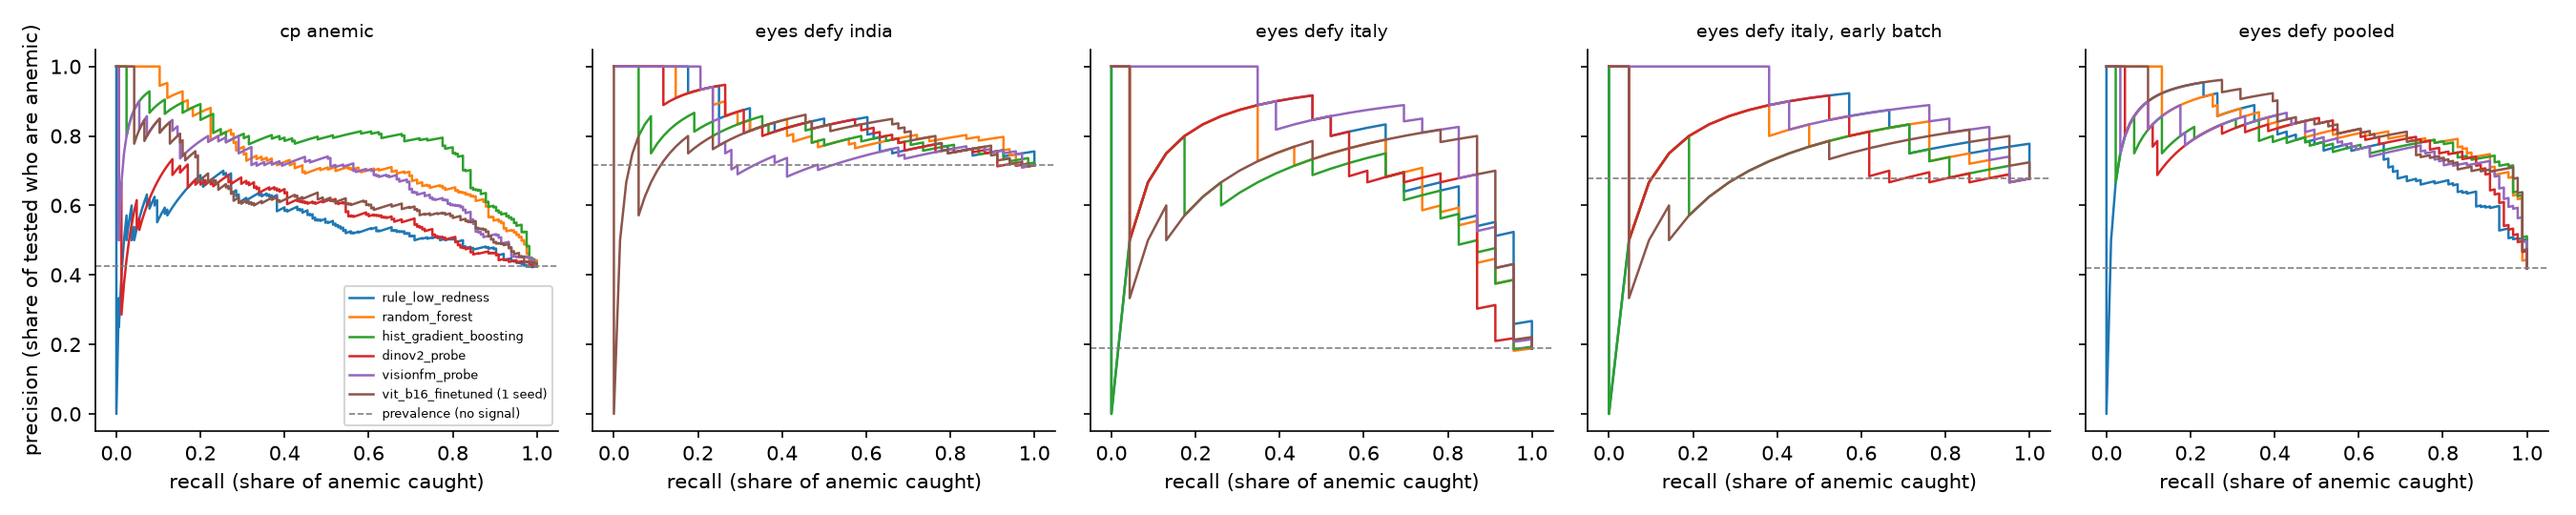
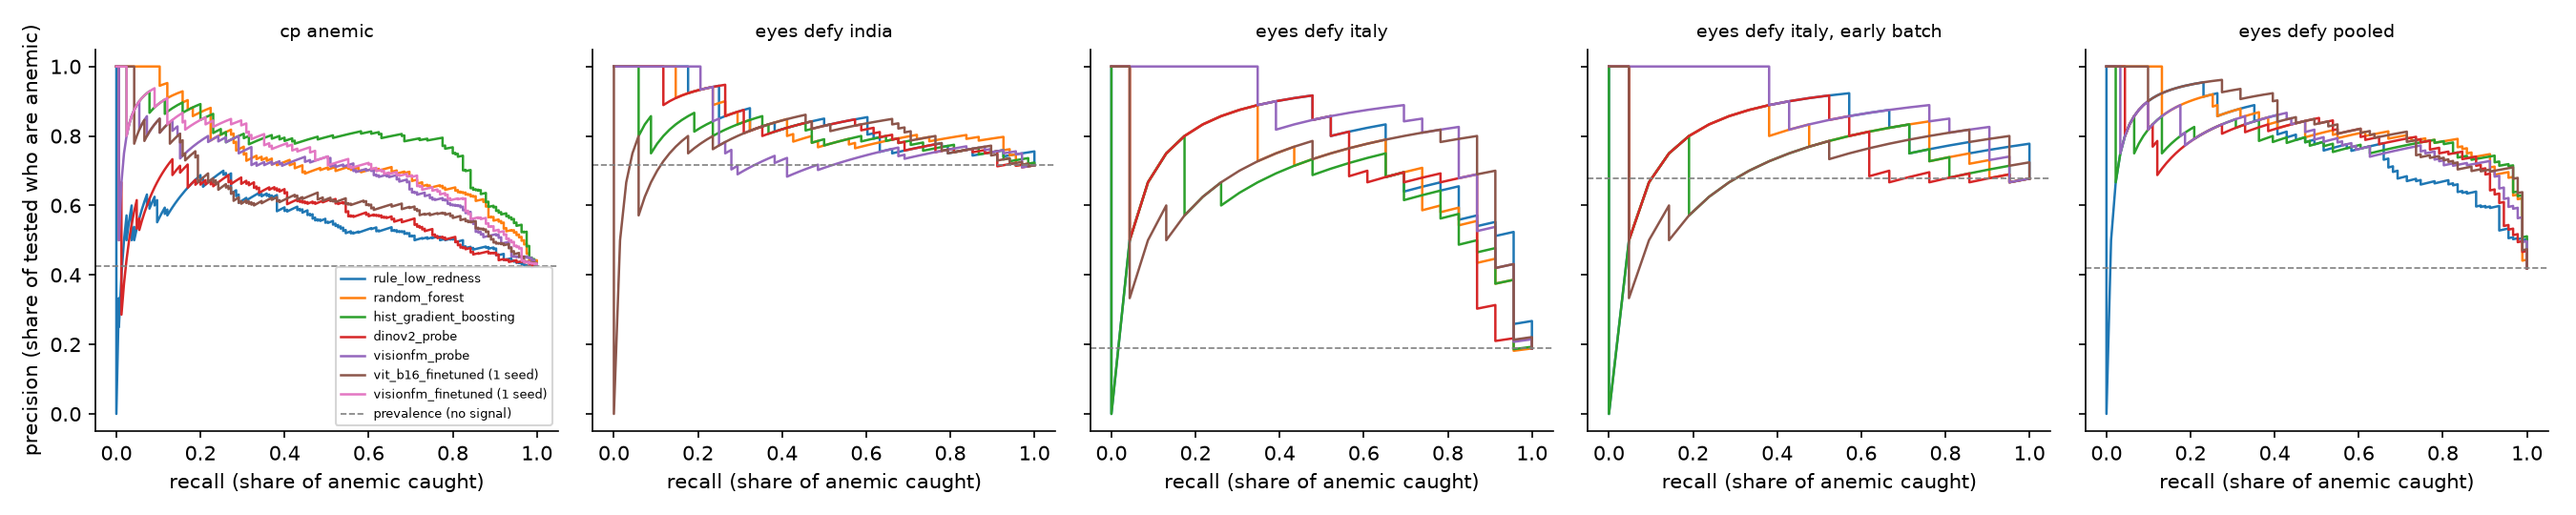
Clinic view with fine-tuned VisionFM

diff --git a/reports/clinical_eyelid.md b/reports/clinical_eyelid.md
@@ -1,6 +1,6 @@
 # What the eyelid models would mean in a clinic
 
-Generated by `python -m src.eyelid.clinical`; settings in `configs/clinical.yaml`. Mentor advice M13 (`docs/eyelid_followup.md`). Held-out scores from Stage 9's folds (5x5 CV by photo, averaged; the ViT has one seed). Anemic: CP-AnemiC Hb < 11.0 g/dL (children, the 388 photos with no copy); Eyes-Defy WHO by sex (women < 12.0, men < 13.0). Bootstrap 95% CIs (2000 resamples).
+Generated by `python -m src.eyelid.clinical`; settings in `configs/clinical.yaml`. Mentor advice M13 (`docs/eyelid_followup.md`). Held-out scores from Stage 9's folds (5x5 CV by photo, averaged; the fine-tuned ViT and VisionFM have one seed). Anemic: CP-AnemiC Hb < 11.0 g/dL (children, the 388 photos with no copy); Eyes-Defy WHO by sex (women < 12.0, men < 13.0). Bootstrap 95% CIs (2000 resamples).
 
 How to read it: a clinic picks how many anemic people it can afford to miss. **Tested to catch 90%** is the share of *everyone* who must get a blood test, highest scores first, to catch 90% of the anemic ones. Testing everyone catches 100% at a load of 1.0, so a useful score has to land well below 1.0. **Anemic among tested** is the precision there. Which row matters is a clinical choice: what a missed anemic person costs against an unneeded blood test. That has to come from clinicians, not from us.
 
@@ -14,6 +14,7 @@ How to read it: a clinic picks how many anemic people it can afford to miss. **T
 | cp_anemic | 388 | 42.5% | dinov2_probe | 0.673 [0.603, 0.773] | 0.827 [0.784, 0.902] | 0.915 [0.869, 0.954] | 0.992 [0.959, 1.000] |
 | cp_anemic | 388 | 42.5% | visionfm_probe | 0.564 [0.505, 0.655] | 0.742 [0.662, 0.843] | 0.892 [0.768, 0.928] | 0.982 [0.923, 0.992] |
 | cp_anemic | 388 | 42.5% | vit_b16_finetuned (1 seed) | 0.595 [0.546, 0.662] | 0.776 [0.665, 0.838] | 0.879 [0.791, 0.948] | 0.979 [0.954, 0.992] |
+| cp_anemic | 388 | 42.5% | visionfm_finetuned (1 seed) | 0.557 [0.487, 0.634] | 0.729 [0.639, 0.796] | 0.835 [0.737, 0.951] | 0.982 [0.956, 0.992] |
 | eyes_defy_india | 95 | 71.6% | rule_low_redness | 0.800 [0.694, 0.832] | 0.874 [0.800, 0.926] | 0.947 [0.853, 0.968] | 0.947 [0.895, 0.989] |
 | eyes_defy_india | 95 | 71.6% | random_forest | 0.747 [0.663, 0.800] | 0.832 [0.758, 0.916] | 0.916 [0.811, 1.000] | 1.000 [0.947, 1.000] |
 | eyes_defy_india | 95 | 71.6% | hist_gradient_boosting | 0.747 [0.684, 0.832] | 0.874 [0.800, 0.937] | 0.958 [0.863, 0.989] | 0.989 [0.937, 1.000] |
@@ -49,6 +50,7 @@ How to read it: a clinic picks how many anemic people it can afford to miss. **T
 | cp_anemic | 388 | 42.5% | dinov2_probe | 0.510 [0.423, 0.583] | 0.464 [0.398, 0.521] | 0.442 [0.391, 0.496] | 0.429 [0.381, 0.478] | 0.583 [0.507, 0.665] |
 | cp_anemic | 388 | 42.5% | visionfm_probe | 0.603 [0.506, 0.684] | 0.517 [0.436, 0.589] | 0.454 [0.403, 0.542] | 0.433 [0.384, 0.489] | 0.693 [0.613, 0.770] |
 | cp_anemic | 388 | 42.5% | vit_b16_finetuned (1 seed) | 0.571 [0.492, 0.638] | 0.495 [0.436, 0.587] | 0.463 [0.407, 0.534] | 0.434 [0.386, 0.486] | 0.637 [0.559, 0.707] |
+| cp_anemic | 388 | 42.5% | visionfm_finetuned (1 seed) | 0.620 [0.528, 0.705] | 0.530 [0.464, 0.615] | 0.485 [0.405, 0.561] | 0.433 [0.385, 0.484] | 0.729 [0.658, 0.802] |
 | eyes_defy_india | 95 | 71.6% | rule_low_redness | 0.763 [0.662, 0.865] | 0.759 [0.663, 0.845] | 0.756 [0.663, 0.839] | 0.756 [0.660, 0.841] | 0.846 [0.759, 0.919] |
 | eyes_defy_india | 95 | 71.6% | random_forest | 0.803 [0.700, 0.889] | 0.797 [0.678, 0.877] | 0.747 [0.642, 0.857] | 0.716 [0.628, 0.811] | 0.840 [0.751, 0.917] |
 | eyes_defy_india | 95 | 71.6% | hist_gradient_boosting | 0.775 [0.667, 0.865] | 0.759 [0.655, 0.849] | 0.736 [0.639, 0.831] | 0.723 [0.634, 0.815] | 0.809 [0.705, 0.902] |
